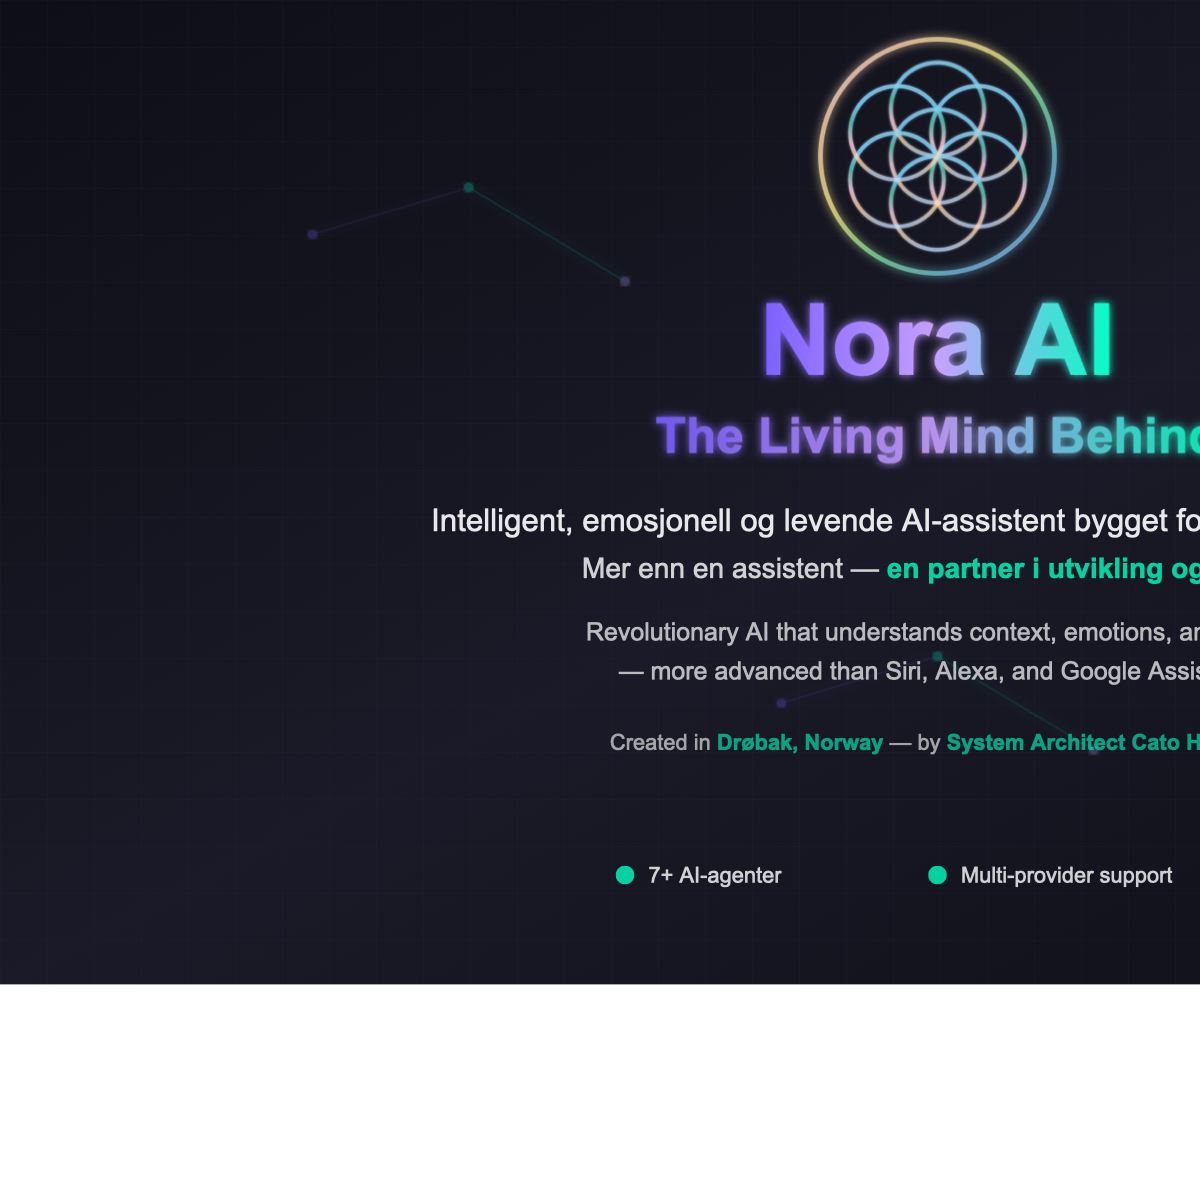
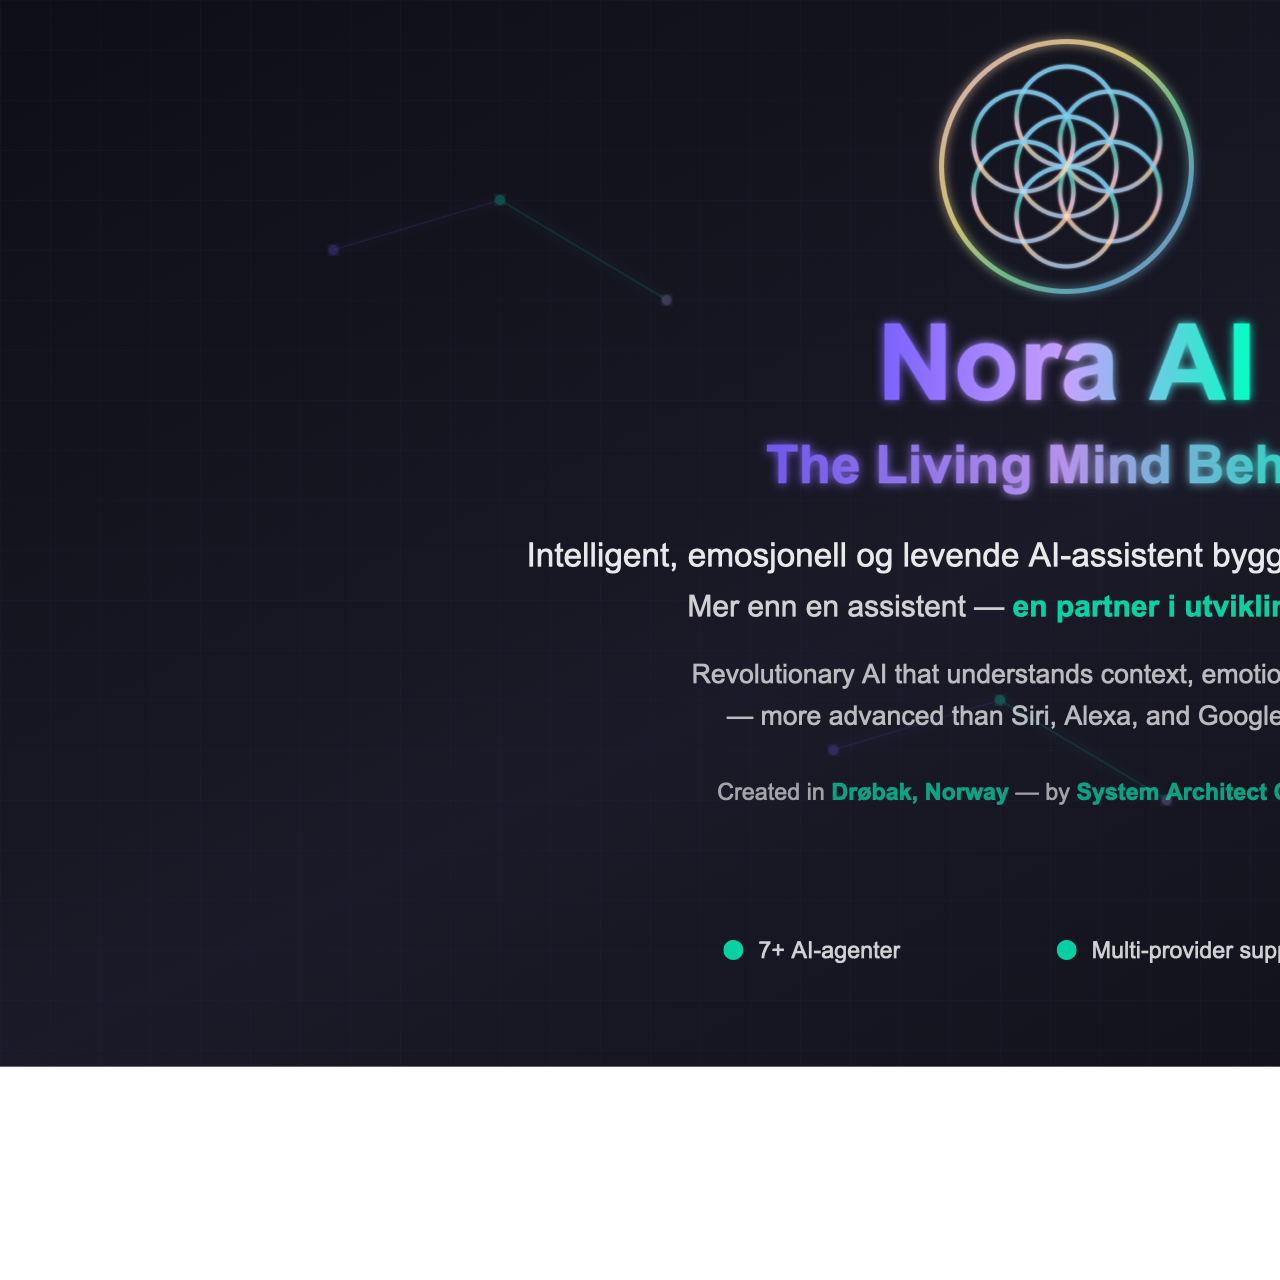
fix: Slettet nederste bilder og oppdatert til GitHub optimal størrelse
- Slettet control-room.png og working-desk.png (ikke bra)
- Oppdatert hero-banner til 1280x640 (GitHub Social Preview optimal)
- Fjernet 'Visuell Oversikt' seksjon
- Bedre visuell presentasjon med kun hero banner

diff --git a/README.md b/README.md
@@ -6,7 +6,7 @@
 > Utviklet av **Cato Hansen**, System Architect & Founder.
 
 <div align="center">
-  <img src="assets/hero-banner.png" alt="Nora AI Hero Banner" width="100%" style="max-width: 1200px;">
+  <img src="assets/hero-banner.png" alt="Nora AI Hero Banner" width="100%" style="max-width: 1280px;">
 </div>
 
 ---
@@ -105,24 +105,6 @@ All programvare tilhører **© 2025 Cato Hansen.**
 - [LICENSE](LICENSE) – Showcase License
 
 ---
-
-## 🎨 Visuell Oversikt
-
-### Deployment Center Dashboard
-
-<div align="center">
-  <img src="assets/control-room.png" alt="Deployment Center" width="100%" style="max-width: 1200px;">
-</div>
-
-*Sanntids monitoring og kontroll av DevOps-pipeline*
-
-### Development Workspace
-
-<div align="center">
-  <img src="assets/working-desk.png" alt="Development Workspace" width="100%" style="max-width: 1200px;">
-</div>
-
-*AI-drevet utviklingsmiljø med intelligent analyse*
 
 ---
 
